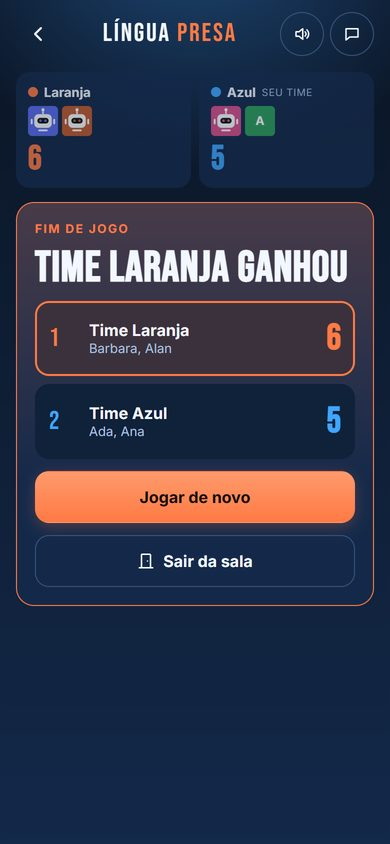
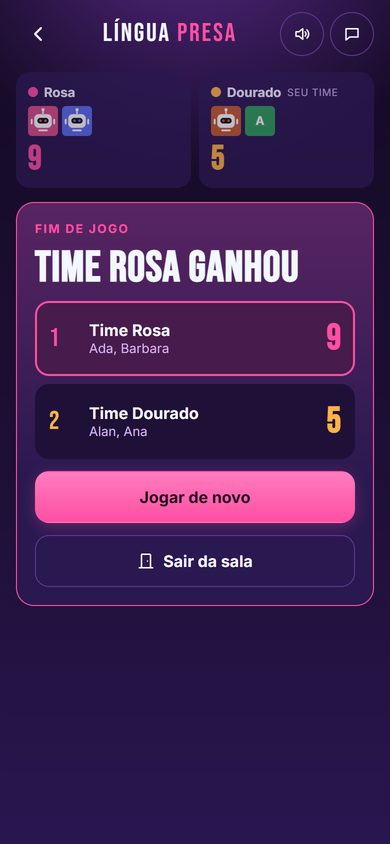
linguapresa: purple and pink colors

Changed region(s): [[0.0308, 0.0, 0.9846, 0.7393]]

diff --git a/web/src/lib/games/linguapresa/LinguaPresa.svelte b/web/src/lib/games/linguapresa/LinguaPresa.svelte
@@ -343,12 +343,12 @@
 <style>
 	.lp {
 		--gold: #ffb347;
-		--ink: #10213a;
+		--ink: #1f1038;
 		position: relative;
 		overflow-x: clip;
 		background:
-			radial-gradient(120% 50% at 50% -10%, #1f4a7a 0%, transparent 60%),
-			linear-gradient(180deg, #0b1626, #10213a 60%, #13294a);
+			radial-gradient(120% 50% at 50% -10%, #5a2a8a 0%, transparent 60%),
+			linear-gradient(180deg, #140a24, #1f1038 60%, #2a1650);
 		color: #f3f7ff;
 		min-height: 100dvh;
 		max-width: 560px;
@@ -359,7 +359,7 @@
 		gap: 14px;
 	}
 	:global(body:has(.lp)) {
-		background: #0b1626;
+		background: #140a24;
 	}
 	.phase {
 		display: flex;
@@ -390,14 +390,14 @@
 		display: grid;
 		place-items: center;
 		border-radius: 999px;
-		border: 1px solid #36537c;
+		border: 1px solid #5a3a8a;
 		background: transparent;
 		color: inherit;
 		transition: transform 0.12s, background 0.2s;
 	}
 	.pill:active {
 		transform: scale(0.92);
-		background: #1f3a5e;
+		background: #3a2268;
 	}
 	.badge {
 		position: absolute;
@@ -422,7 +422,7 @@
 		position: relative;
 		padding: 10px;
 		border-radius: 14px;
-		background: #14294a;
+		background: #2a1850;
 		border: 2px solid transparent;
 		display: flex;
 		flex-direction: column;
@@ -454,7 +454,7 @@
 		font-size: 10px;
 		text-transform: uppercase;
 		letter-spacing: 0.5px;
-		color: #9fb6d6;
+		color: #c9aee8;
 	}
 	.faces {
 		display: flex;
@@ -481,8 +481,8 @@
 
 	/* ---- panels ---- */
 	.panel {
-		background: #14294a;
-		border: 1px solid #25456f;
+		background: #2a1850;
+		border: 1px solid #4a2a7a;
 		border-radius: 18px;
 		padding: 18px;
 		display: flex;
@@ -494,7 +494,7 @@
 	}
 	.hero {
 		border-color: var(--c);
-		background: linear-gradient(180deg, color-mix(in srgb, var(--c) 22%, #14294a), #14294a 70%);
+		background: linear-gradient(180deg, color-mix(in srgb, var(--c) 22%, #2a1850), #2a1850 70%);
 	}
 	.kicker {
 		font-size: 12px;
@@ -541,7 +541,7 @@
 		flex: 1;
 		height: 12px;
 		border-radius: 999px;
-		background: #1f3a5e;
+		background: #3a2268;
 		overflow: hidden;
 	}
 	.clock-bar i {
@@ -567,11 +567,11 @@
 		border-radius: 20px;
 		overflow: hidden;
 		box-shadow: 0 14px 34px #0008;
-		border: 3px solid #ff7a45;
+		border: 3px solid #ff4fa3;
 	}
 	.card-word {
 		display: block;
-		background: #ff7a45;
+		background: #ff4fa3;
 		color: #fff;
 		text-align: center;
 		font-family: var(--display);
@@ -612,7 +612,7 @@
 	}
 	.small {
 		font-size: 13px;
-		color: #a9c0e0;
+		color: #d0b8ec;
 		margin: 0;
 	}
 	.center {
@@ -638,12 +638,12 @@
 		opacity: 0.5;
 	}
 	.btn.primary {
-		background: linear-gradient(180deg, #ff9a6c, #ff7a45);
-		color: #1a0d05;
-		box-shadow: 0 4px 14px #ff7a4540;
+		background: linear-gradient(180deg, #ff7cbf, #ff4fa3);
+		color: #2a0a1e;
+		box-shadow: 0 4px 14px #ff4fa340;
 	}
 	.btn.ghost {
-		border-color: #36537c;
+		border-color: #5a3a8a;
 		background: transparent;
 		color: inherit;
 	}
@@ -656,8 +656,8 @@
 	}
 	.btn.skip {
 		min-height: 72px;
-		background: #1f3a5e;
-		border-color: #36537c;
+		background: #3a2268;
+		border-color: #5a3a8a;
 		color: inherit;
 	}
 	.btn.buzz {
@@ -689,7 +689,7 @@
 		min-height: 44px;
 		background: none;
 		border: 0;
-		color: #a9c0e0;
+		color: #d0b8ec;
 		text-decoration: underline;
 		font: inherit;
 	}
@@ -720,8 +720,8 @@
 		padding: 6px 12px 6px 6px;
 		border-radius: 999px;
 		font-weight: 700;
-		background: #1f3a5e;
-		border: 1px solid #36537c;
+		background: #3a2268;
+		border: 1px solid #5a3a8a;
 	}
 	.played li .tag {
 		font-size: 11px;
@@ -729,7 +729,7 @@
 		text-transform: uppercase;
 		padding: 3px 8px;
 		border-radius: 999px;
-		background: #36537c;
+		background: #5a3a8a;
 	}
 	.played li.hit .tag {
 		background: #4fcf7e;
@@ -762,12 +762,12 @@
 		gap: 12px;
 		padding: 12px;
 		border-radius: 14px;
-		background: #10213a;
+		background: #1f1038;
 		border: 2px solid transparent;
 	}
 	.rank li.win {
 		border-color: var(--c);
-		background: color-mix(in srgb, var(--c) 18%, #10213a);
+		background: color-mix(in srgb, var(--c) 18%, #1f1038);
 	}
 	.pos {
 		font-family: var(--display);
@@ -783,7 +783,7 @@
 	}
 	.rank-faces {
 		font-size: 13px;
-		color: #a9c0e0;
+		color: #d0b8ec;
 	}
 	.rank b {
 		font-family: var(--display);

diff --git a/web/src/lib/games/linguapresa/KeyArt.svelte b/web/src/lib/games/linguapresa/KeyArt.svelte
@@ -9,20 +9,20 @@
 <svg viewBox="0 0 358 290" width="100%" {height} preserveAspectRatio="xMidYMid slice" style="display: block" role="img" aria-label="Arte do Língua Presa: uma carta com uma palavra e quatro palavras proibidas riscadas">
 	<defs>
 		<linearGradient id="g{id}" x1="0" y1="0" x2="0" y2="1">
-			<stop offset="0" stop-color="#10213a" />
-			<stop offset="1" stop-color="#1d4a72" />
+			<stop offset="0" stop-color="#1f1038" />
+			<stop offset="1" stop-color="#5a2a8a" />
 		</linearGradient>
 		<linearGradient id="f{id}" x1="0" y1="0" x2="0" y2="1">
-			<stop offset="0.65" stop-color="#0b1626" stop-opacity="0" />
-			<stop offset="1" stop-color="#0b1626" stop-opacity="1" />
+			<stop offset="0.65" stop-color="#140a24" stop-opacity="0" />
+			<stop offset="1" stop-color="#140a24" stop-opacity="1" />
 		</linearGradient>
 	</defs>
 	<rect width="358" height="290" fill="url(#g{id})" />
-	<circle cx="298" cy="62" r="30" fill="none" stroke="#ff7a45" stroke-width="6" />
-	<path d="M298 62V44M298 62l12 8" stroke="#ff7a45" stroke-width="5" stroke-linecap="round" />
+	<circle cx="298" cy="62" r="30" fill="none" stroke="#ff4fa3" stroke-width="6" />
+	<path d="M298 62V44M298 62l12 8" stroke="#ff4fa3" stroke-width="5" stroke-linecap="round" />
 	<g transform="rotate(-4 179 150)">
-		<rect x="74" y="38" width="210" height="222" rx="14" fill="#fff4e0" stroke="#ff7a45" stroke-width="4" />
-		<rect x="74" y="38" width="210" height="52" rx="14" fill="#ff7a45" />
+		<rect x="74" y="38" width="210" height="222" rx="14" fill="#fff4e0" stroke="#ff4fa3" stroke-width="4" />
+		<rect x="74" y="38" width="210" height="52" rx="14" fill="#ff4fa3" />
 		<text x="179" y="76" text-anchor="middle" font-family="Bebas Neue, Impact, sans-serif" font-size="36" fill="#fff" letter-spacing="2">PIZZA</text>
 		{#each taboo as w, i (w)}
 			<g transform="translate(0 {i * 36})">

diff --git a/web/src/lib/games/linguapresa/art/Guesser.svelte b/web/src/lib/games/linguapresa/art/Guesser.svelte
@@ -3,10 +3,10 @@
 </script>
 
 <svg viewBox="0 0 80 80" width={size} height={size} role="img" aria-label="Uma pessoa pensando, com um balão de pergunta">
-	<rect width="80" height="80" rx="8" fill="#10213a" />
+	<rect width="80" height="80" rx="8" fill="#1f1038" />
 	<circle cx="34" cy="46" r="15" fill="#ffd9b0" />
-	<circle cx="29" cy="43" r="2" fill="#10213a" /><circle cx="39" cy="43" r="2" fill="#10213a" />
+	<circle cx="29" cy="43" r="2" fill="#1f1038" /><circle cx="39" cy="43" r="2" fill="#1f1038" />
 	<path d="M30 52h8" stroke="#7a2e3a" stroke-width="3" stroke-linecap="round" />
 	<ellipse cx="54" cy="22" rx="16" ry="12" fill="#fff4e0" />
-	<text x="54" y="29" text-anchor="middle" font-family="Bebas Neue, Impact, sans-serif" font-size="22" fill="#ff7a45">?</text>
+	<text x="54" y="29" text-anchor="middle" font-family="Bebas Neue, Impact, sans-serif" font-size="22" fill="#ff4fa3">?</text>
 </svg>

diff --git a/web/src/lib/games/linguapresa/art/Narrator.svelte b/web/src/lib/games/linguapresa/art/Narrator.svelte
@@ -3,11 +3,11 @@
 </script>
 
 <svg viewBox="0 0 80 80" width={size} height={size} role="img" aria-label="Uma pessoa falando, com a boca aberta">
-	<rect width="80" height="80" rx="8" fill="#10213a" />
+	<rect width="80" height="80" rx="8" fill="#1f1038" />
 	<circle cx="34" cy="36" r="16" fill="#ffd9b0" />
 	<path d="M30 42q4 6 8 0" stroke="#7a2e3a" stroke-width="3" fill="#7a2e3a" stroke-linecap="round" />
-	<circle cx="29" cy="32" r="2" fill="#10213a" /><circle cx="39" cy="32" r="2" fill="#10213a" />
-	<g stroke="#ff7a45" stroke-width="3" stroke-linecap="round" fill="none">
+	<circle cx="29" cy="32" r="2" fill="#1f1038" /><circle cx="39" cy="32" r="2" fill="#1f1038" />
+	<g stroke="#ff4fa3" stroke-width="3" stroke-linecap="round" fill="none">
 		<path d="M54 30q5 6 0 12" /><path d="M60 25q9 11 0 22" />
 	</g>
 </svg>

diff --git a/web/src/lib/games/linguapresa/art/Watcher.svelte b/web/src/lib/games/linguapresa/art/Watcher.svelte
@@ -3,8 +3,8 @@
 </script>
 
 <svg viewBox="0 0 80 80" width={size} height={size} role="img" aria-label="Uma campainha vermelha">
-	<rect width="80" height="80" rx="8" fill="#10213a" />
-	<rect x="18" y="52" width="44" height="10" rx="4" fill="#5a6b85" />
+	<rect width="80" height="80" rx="8" fill="#1f1038" />
+	<rect x="18" y="52" width="44" height="10" rx="4" fill="#7a5aa8" />
 	<path d="M24 52q0-24 16-24t16 24z" fill="#e23d3d" />
 	<circle cx="40" cy="26" r="4" fill="#ff8a8a" />
 	<path d="M14 30l-6-4M66 30l6-4M40 14V8" stroke="#ffb347" stroke-width="3" stroke-linecap="round" />

diff --git a/web/src/lib/games/linguapresa/types.ts b/web/src/lib/games/linguapresa/types.ts
@@ -52,5 +52,5 @@ export const lapChoices = [1, 2];
 export const secondChoices = [45, 60, 90];
 
 /** Every team gets a color and a name, by position. */
-export const teamColors = ['#ff7a45', '#3ea6ff', '#5fd38d', '#ff5fa2', '#a77bff'];
-export const teamNames = ['Laranja', 'Azul', 'Verde', 'Rosa', 'Roxo'];
+export const teamColors = ['#ff4fa3', '#ffb347', '#5fd38d', '#35d4ff', '#c58bff'];
+export const teamNames = ['Rosa', 'Dourado', 'Verde', 'Ciano', 'Roxo'];

diff --git a/web/src/lib/games/linguapresa/Title.svelte b/web/src/lib/games/linguapresa/Title.svelte
@@ -3,5 +3,5 @@
 </script>
 
 <span style="font-family: var(--display); font-size: {size}px; line-height: 0.9; letter-spacing: 2px"
-	>LÍNGUA <span style="color: #ff7a45">PRESA</span></span
+	>LÍNGUA <span style="color: #ff4fa3">PRESA</span></span
 >

diff --git a/web/src/lib/games/linguapresa/LobbyOptions.svelte b/web/src/lib/games/linguapresa/LobbyOptions.svelte
@@ -104,9 +104,9 @@
 		font-weight: 600;
 	}
 	button.on {
-		background: #ff7a45;
-		border-color: #ff7a45;
-		color: #1a0d05;
+		background: #ff4fa3;
+		border-color: #ff4fa3;
+		color: #2a0a1e;
 	}
 	button:disabled:not(.on) {
 		opacity: 0.6;
